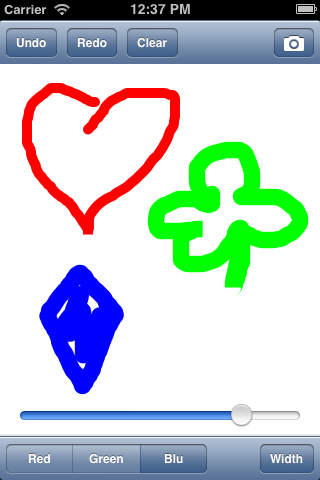
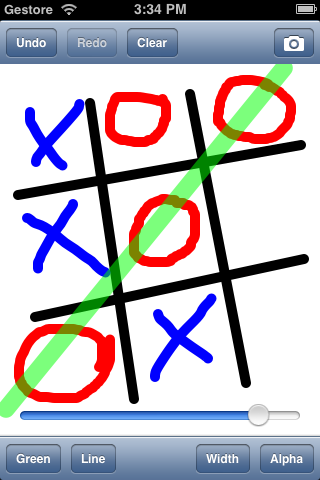
Updated drawing view to create different tool. Updated screenshot

diff --git a/ACEDrawingViewDemo/ACEViewController.m b/ACEDrawingViewDemo/ACEViewController.m
@@ -29,7 +29,6 @@
     self.drawingView.delegate = self;
     
     // start with a black pen
-    self.drawingView.lineColor = [UIColor blackColor];
     self.lineWidthSlider.value = self.drawingView.lineWidth;
     
     // init the preview image
@@ -123,10 +122,12 @@
             switch (buttonIndex) {
                 case 0:
                     self.toolButton.title = [actionSheet buttonTitleAtIndex:buttonIndex];
+                    self.drawingView.drawTool = ACEDrawingToolTypePen;
                     break;
                     
                 case 1:
                     self.toolButton.title = [actionSheet buttonTitleAtIndex:buttonIndex];
+                    self.drawingView.drawTool = ACEDrawingToolTypeLine;
                     break;
             }
         }

diff --git a/ACEDrawingView/ACEDrawingView.m b/ACEDrawingView/ACEDrawingView.m
@@ -118,13 +118,24 @@
     UIGraphicsEndImageContext();
 }
 
+- (Class)toolClass
+{
+    switch (self.drawTool) {
+        case ACEDrawingToolTypePen:
+            return [ACEDrawingPenTool class];
+            
+        case ACEDrawingToolTypeLine:
+            return [ACEDrawingLineTool class];
+    }
+}
+
 
 #pragma mark - Touch Methods
 
 - (void)touchesBegan:(NSSet *)touches withEvent:(UIEvent *)event
 {
     // init the bezier path
-    self.currentTool = ACE_AUTORELEASE([ACEDrawingLineTool new]);
+    self.currentTool = ACE_AUTORELEASE([[self toolClass] new]);
     self.currentTool.lineWidth = self.lineWidth;
     self.currentTool.lineColor = self.lineColor;
     self.currentTool.lineAlpha = self.lineAlpha;

diff --git a/ACEDrawingView/ACEDrawingView.h b/ACEDrawingView/ACEDrawingView.h
@@ -25,12 +25,18 @@
 
 #import <UIKit/UIKit.h>
 
-#define ACEDrawingViewVersion   0.2
+#define ACEDrawingViewVersion   0.2.1
+
+typedef enum {
+    ACEDrawingToolTypePen,
+    ACEDrawingToolTypeLine,
+} ACEDrawingToolType;
 
 @protocol ACEDrawingViewDelegate, ACEDrawingTool;
 
 @interface ACEDrawingView : UIView
 
+@property (nonatomic, assign) ACEDrawingToolType drawTool;
 @property (nonatomic, assign) id<ACEDrawingViewDelegate> delegate;
 
 // public properties
